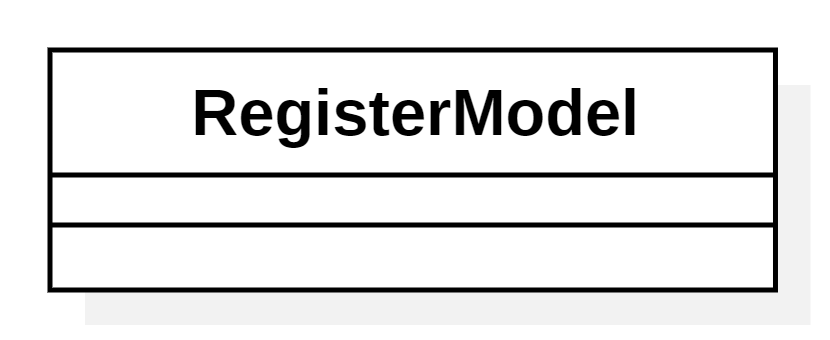
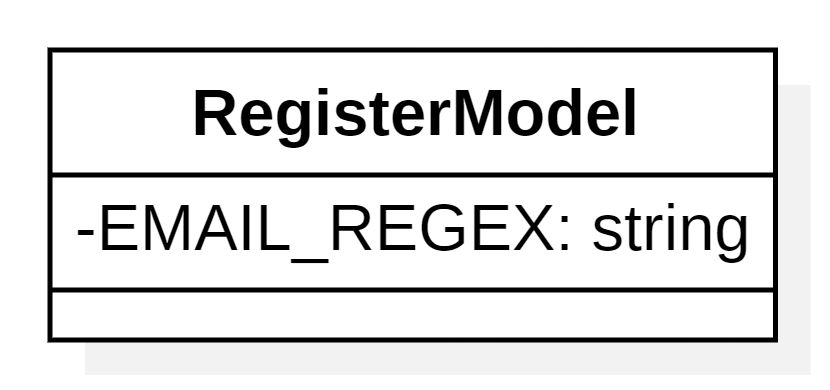
Pull Request Automatica - feature/specifica-tecnica → main (#275)
* Correzioni

* Fix

---------

diff --git a/src/PB/Documenti Esterni/Specifica Tecnica/content/autenticazione_frontend.tex b/src/PB/Documenti Esterni/Specifica Tecnica/content/autenticazione_frontend.tex
@@ -415,7 +415,10 @@ Standardizza il formato della risposta del Model, indipendentemente dal tipo di 
 Inizializza i campi del form con la configurazione specifica per la registrazione (username, email, password, conferma password) e sovrascrive \texttt{validate} per aggiungere la validazione$^G$ del formato email e la verifica$^G$ della corrispondenza delle due password.
 
 \subsubsubsubsection{Attributi}
-\texttt{RegisterModel} non definisce attributi.
+\begin{itemize}
+	\item \texttt{EMAIL\_REGEX: string} - attributo privato di tipo stringa. 
+	Espressione regolare utilizzata per la validazione del formato dell'indirizzo email inserito dall'utente durante la registrazione.
+\end{itemize}
 
 \subsubsubsubsection{Metodi e funzioni}
 \texttt{RegisterModel} sovrascrive il metodo \texttt{validate} ereditato da \texttt{FormModel}, estendendolo con la validazione$^G$ del formato username tramite \texttt{USERNAME\_REGEX}, del formato email tramite \texttt{EMAIL\_REGEX}, della complessità della password tramite \texttt{PASSWORD\_REGEX} e della corrispondenza tra i campi \texttt{password} e \texttt{confirmPwd}.
